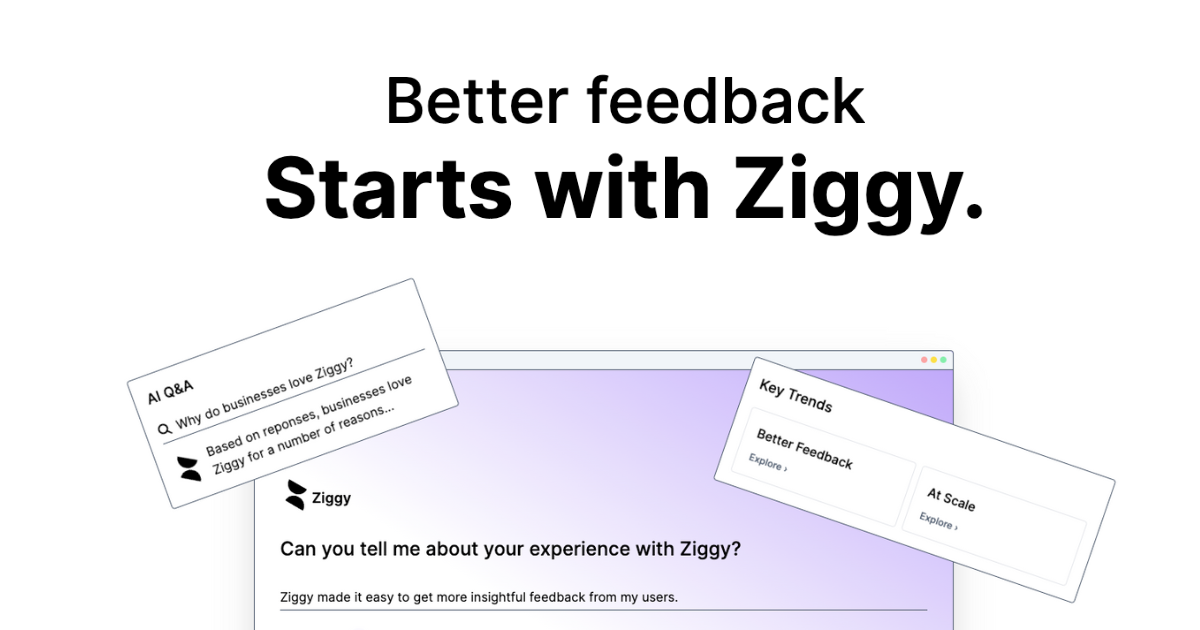
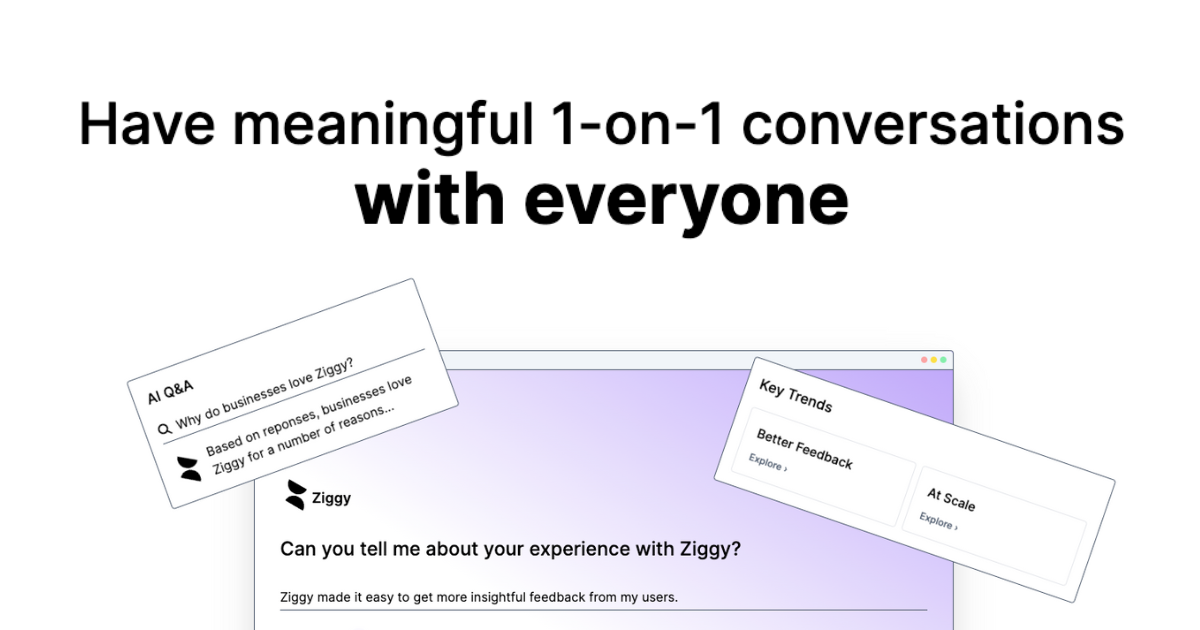
og stuff

Changed region(s): [[0.0617, 0.1206, 0.9558, 0.3921]]

diff --git a/app/layout.tsx b/app/layout.tsx
@@ -8,9 +8,9 @@ import { Analytics } from "@vercel/analytics/react"
 const inter = Inter({ subsets: ["latin"] })
 
 export const metadata: Metadata = {
-  title: "Ziggy - Better feedback starts with Ziggy.",
-  description: "The AI tool to conduct interviews and get better feedback than traditional survey forms.",
-  keywords: ["Feedback", "AI Feedback", "Better feedback", "Analytics"],
+  title: "Ziggy - Have meaingful conversations with everyone.",
+  description: "Ziggy saves you the time of scheduling 1-on-1s by using AI to conduct them just like you would, except with anyone at any time, and stay in the loop with real-time analytics.",
+  keywords: ["Feedback", "AI Feedback", "Better feedback", "Analytics", "one-on-ones", "Scale", "1-on-1s", "1-on-1s", "Ziggy", "Ziggy AI", "Ziggy Feedback", "Ziggy Analytics", "Ziggy 1-on-1s", "Ziggy Scale", "Ziggy one-on-ones"],
   openGraph: {
     images: '/ziggy-og.png',
   },
